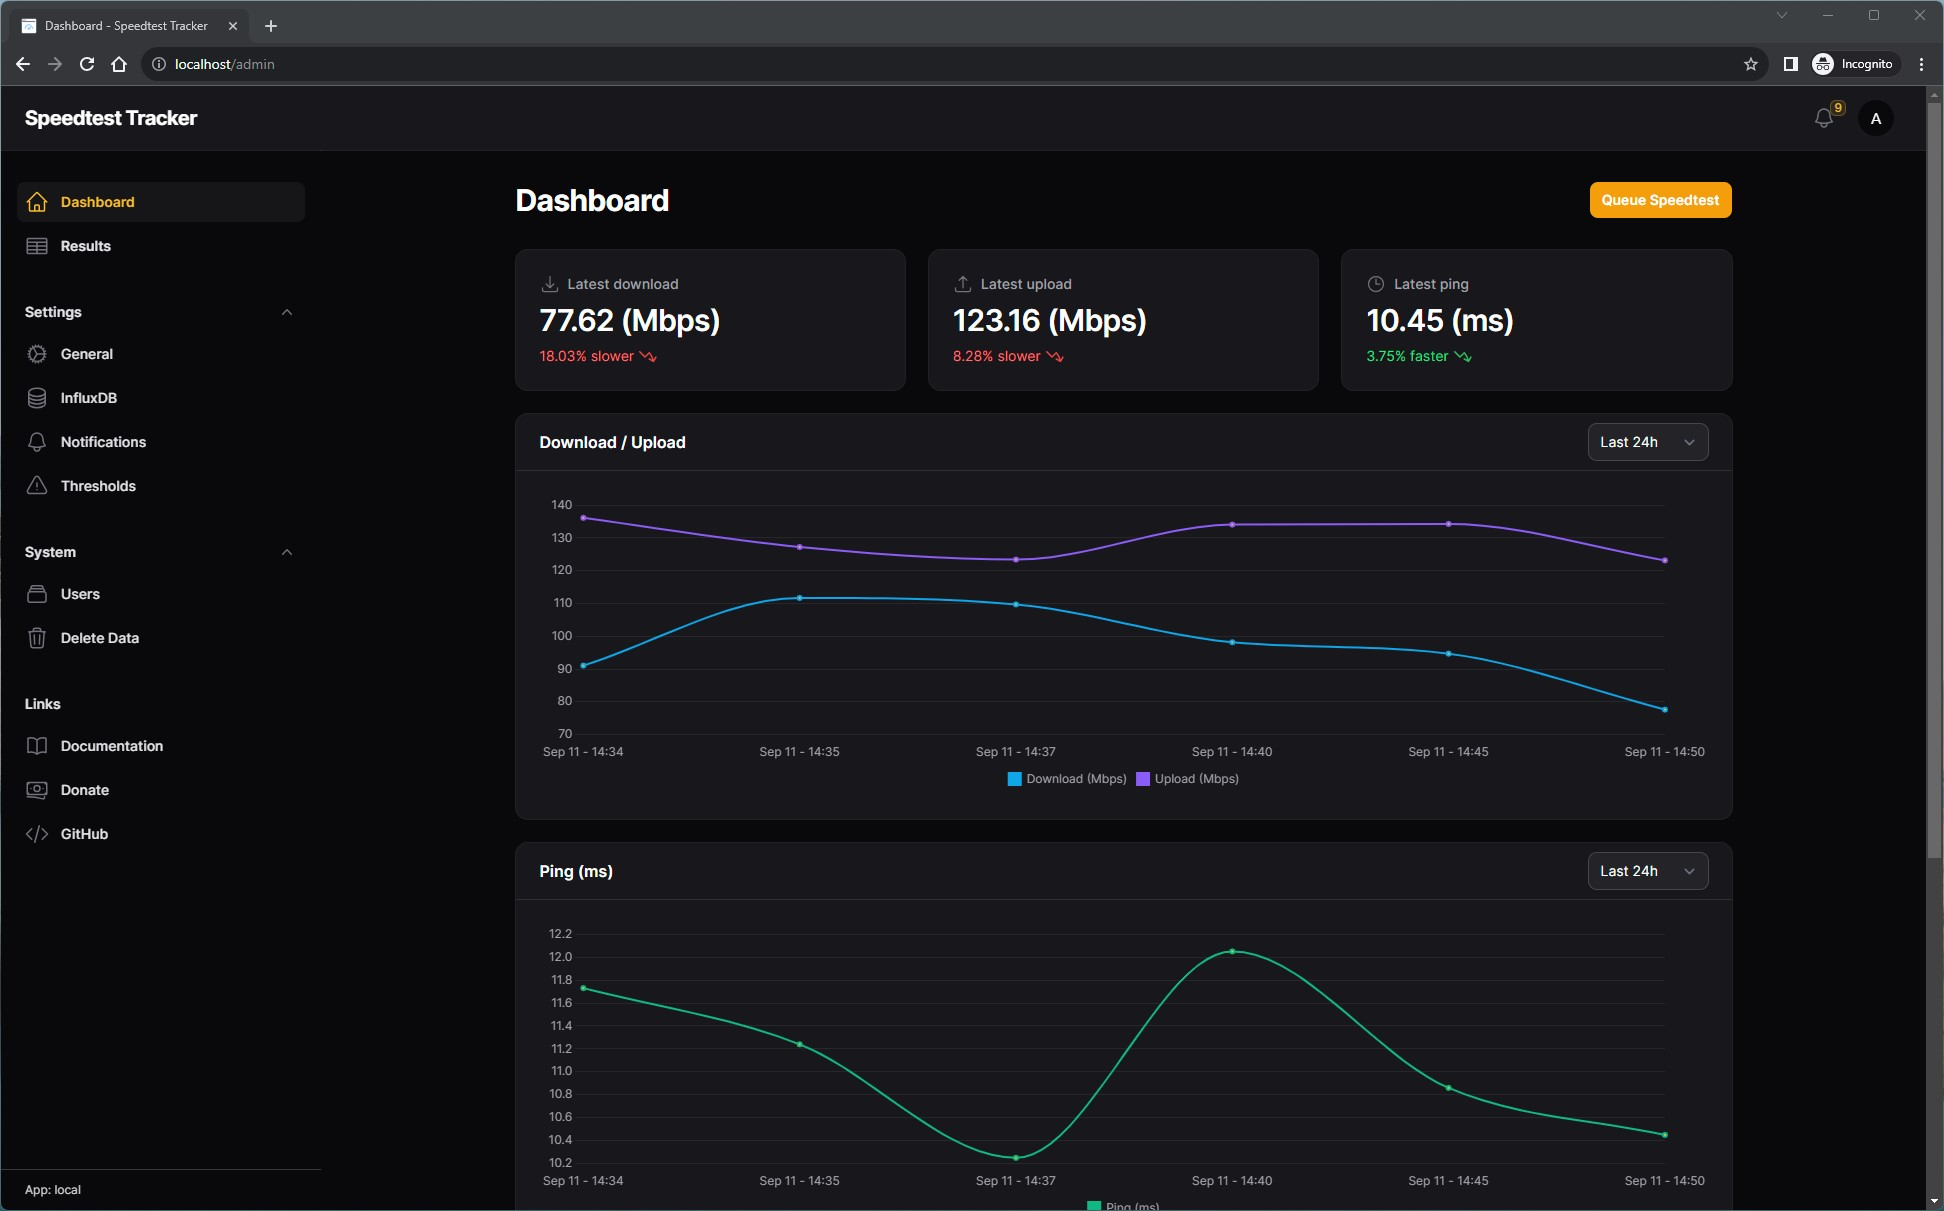
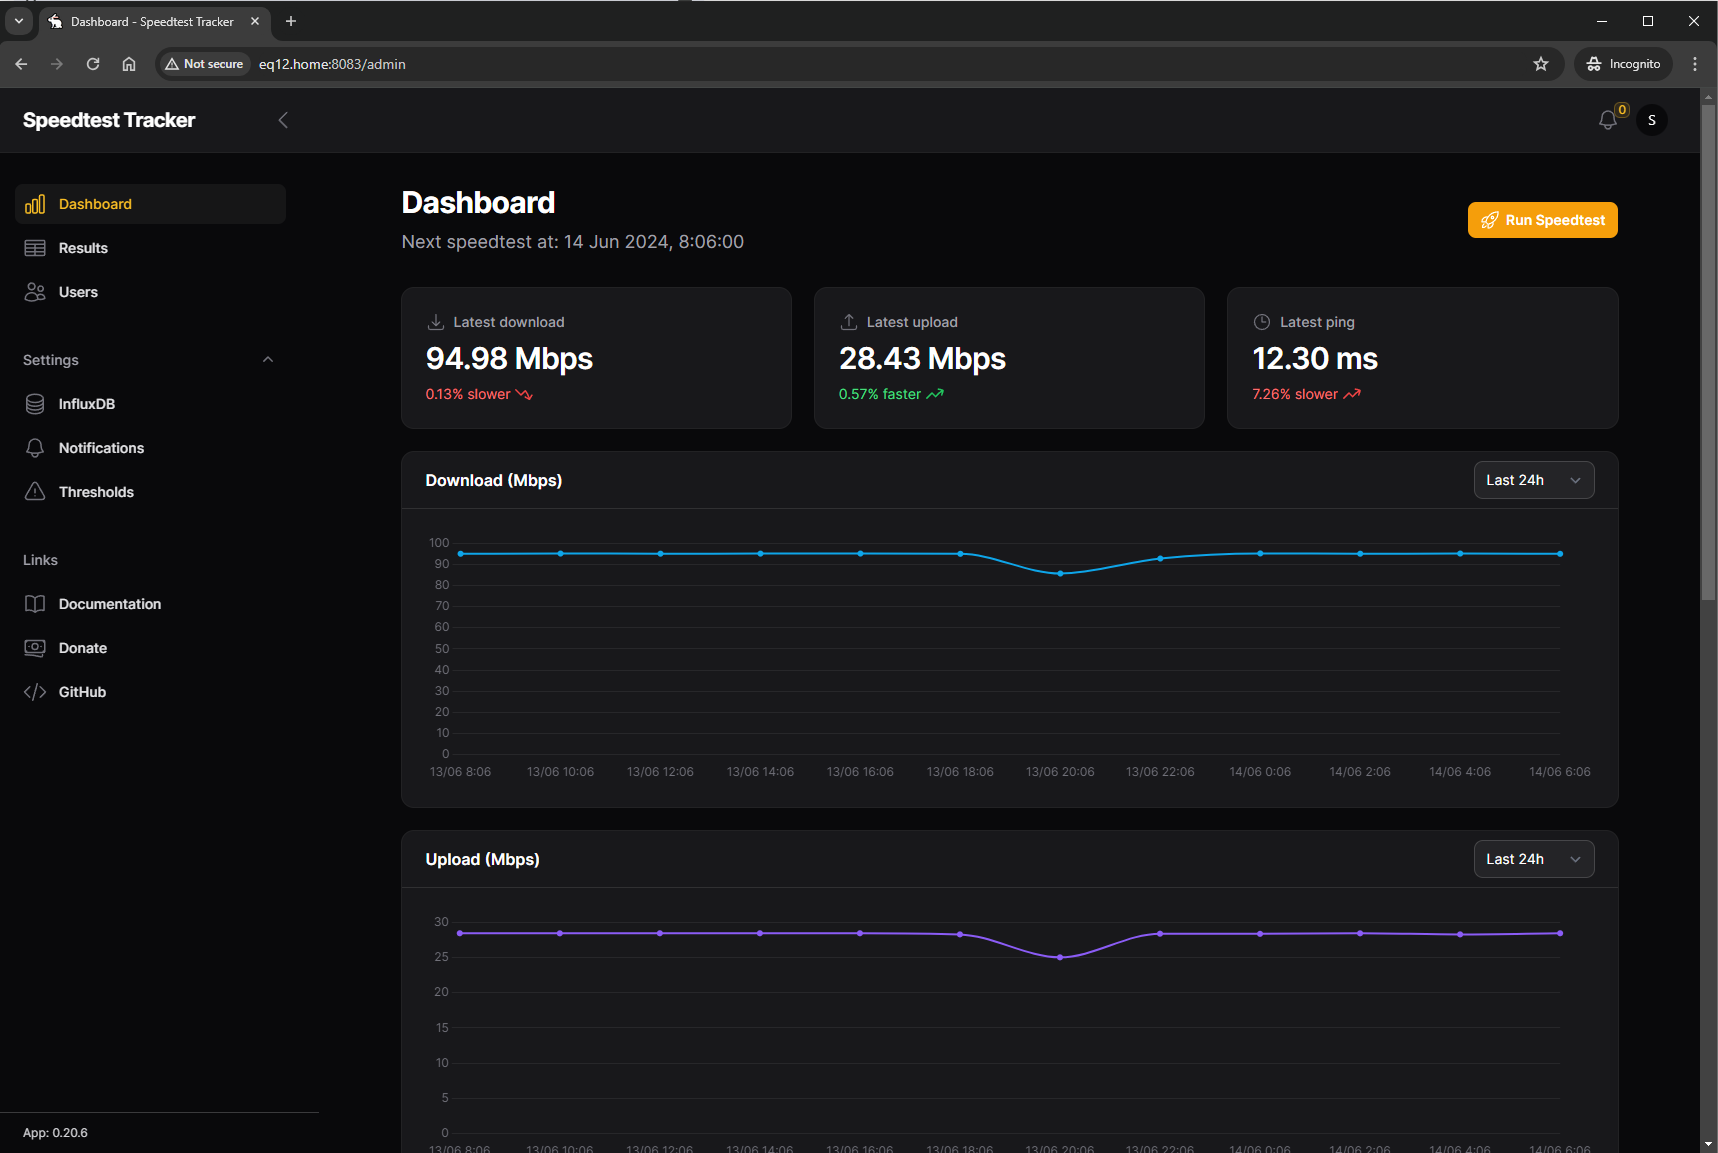
Add updated image to the readme (#1767)
* Delete .github/screenshots/dashboard_screenshot.jpg

* push

* Delete .github/screenshots/dashboard_screenshot.jpg

* Add files via upload

* move it

* push

diff --git a/README.md b/README.md
@@ -26,7 +26,7 @@ docker run -d --name speedtest-tracker --restart unless-stopped \
     -e PUID=1000 \
     -e PGID=1000 \
     -e APP_KEY= \ # How to generate an app key: https://speedtest-tracker.dev/
-    # -e SPEEDTEST_SCHEDULE= \ # optional: schedule a speedtest (default: every hour): https://crontab.guru
+    # -e SPEEDTEST_SCHEDULE= \ # optional: schedule a speedtest with an cronjob https://crontab.guru
     -e APP_URL=http://localhost \
     -e DB_CONNECTION=sqlite \
     -v ${PWD}:/config \
@@ -48,18 +48,19 @@ services:
             - APP_KEY= # How to generate an app key: https://speedtest-tracker.dev/
             - APP_URL=http://localhost
             - DB_CONNECTION=sqlite
-            # - SPEEDTEST_SCHEDULE= # optional: schedule a speedtest (default: every hour): https://crontab.guru
+            # - SPEEDTEST_SCHEDULE= # optional: schedule a speedtest with an cronjob https://crontab.guru
         volumes:
             - /path/to/data:/config
             - /path/to-custom-ssl-keys:/config/keys
         image: lscr.io/linuxserver/speedtest-tracker:latest
         restart: unless-stopped
 ```
+For more environment configuration to customize your installation see the docs: https://docs.speedtest-tracker.dev/getting-started/environment-variables
+
+
 ## Image version
 
 A full list of released versions can be found here: https://fleet.linuxserver.io/image?name=linuxserver/speedtest-tracker
-
-For more environment configuration see the docs: https://docs.speedtest-tracker.dev/getting-started/environment-variables
 
 ### FAQs and Features
 
